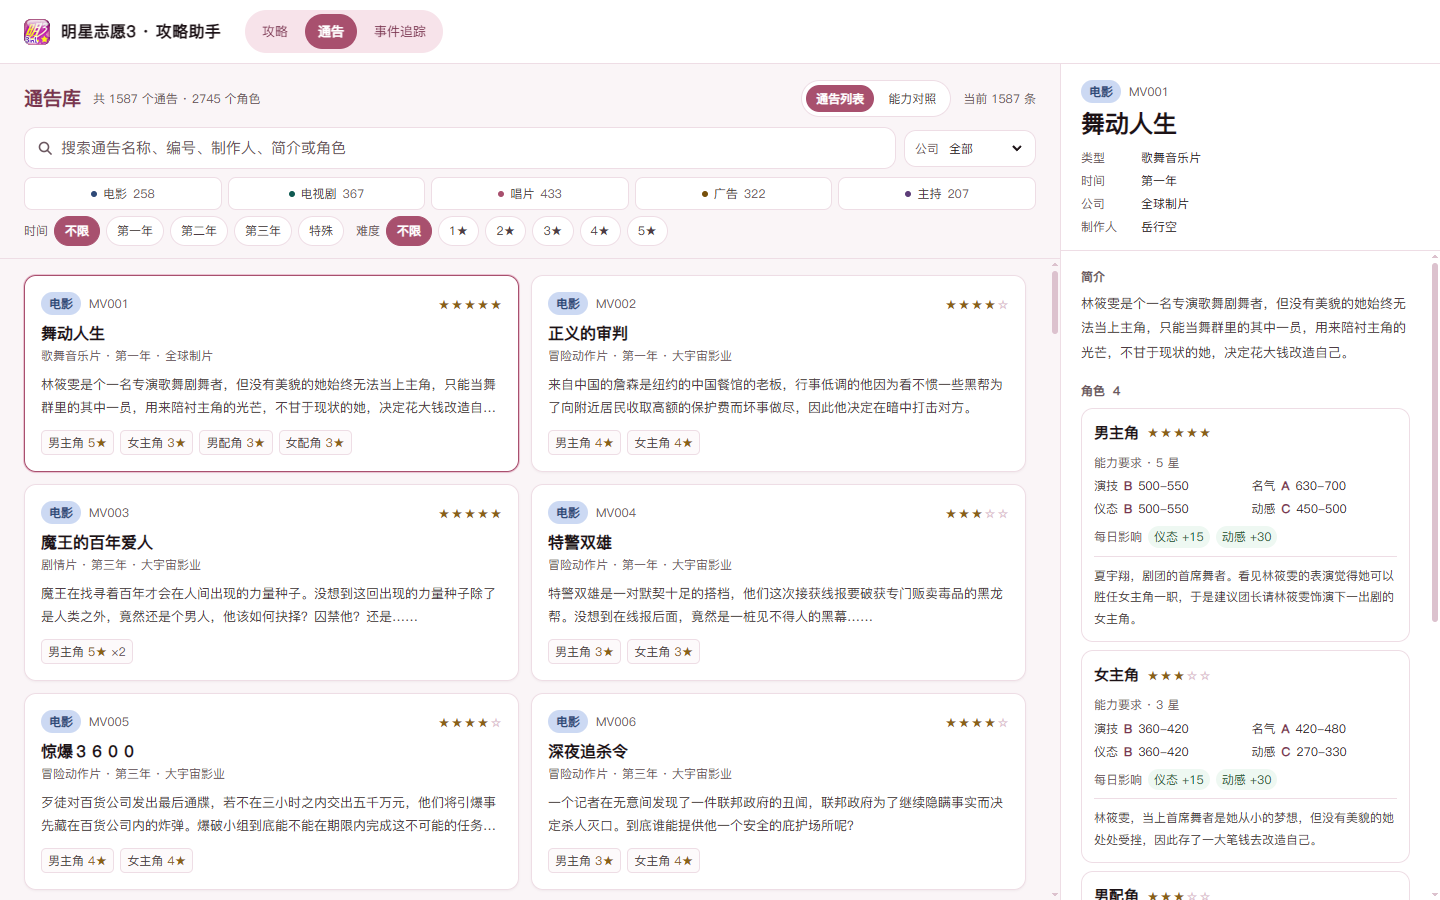
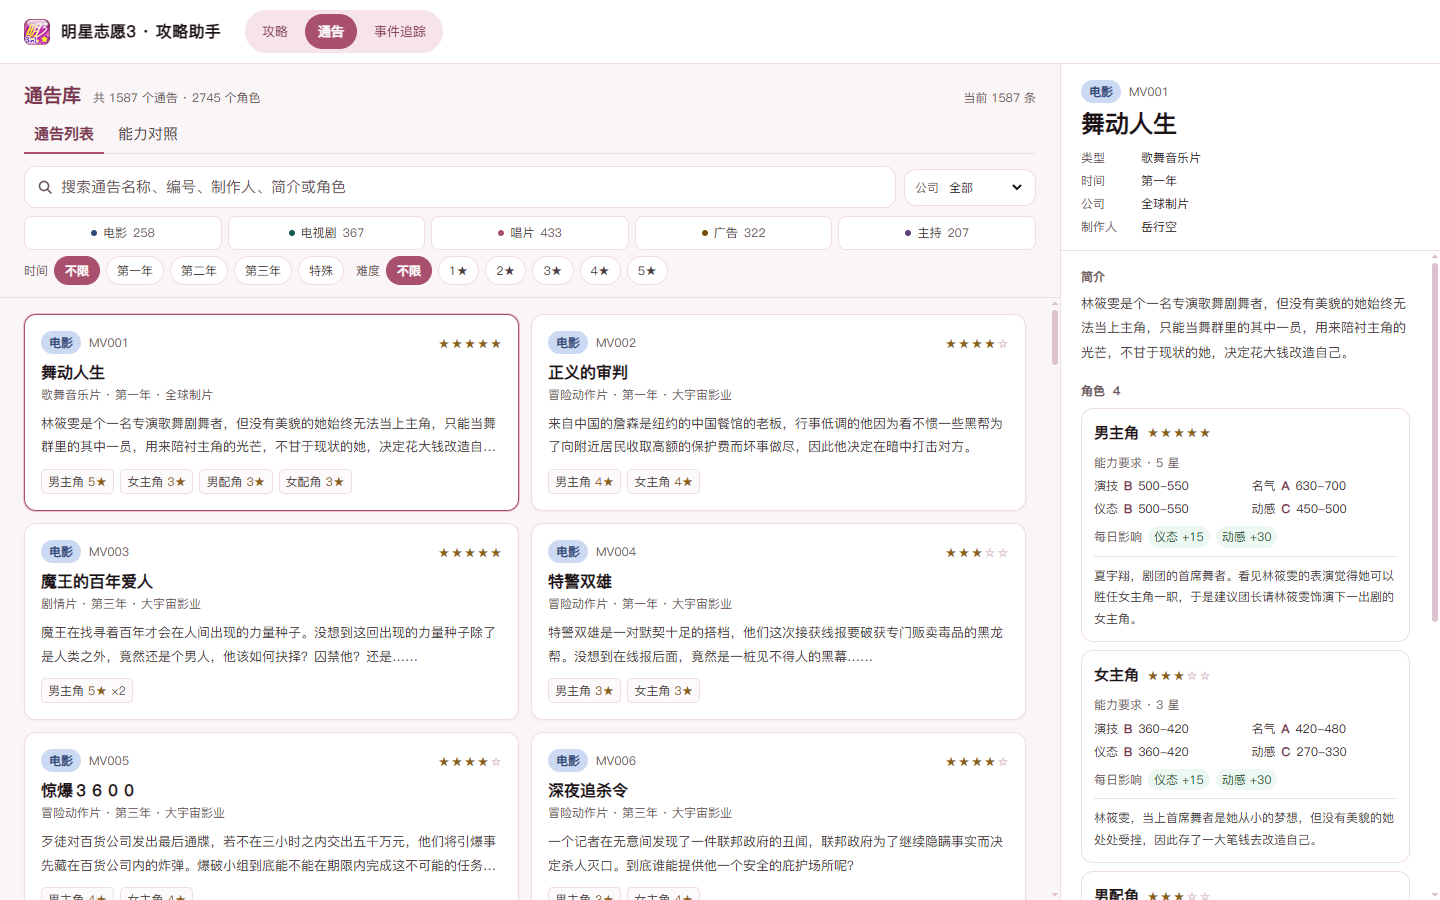
style: use underline tabs for the notices view switch

diff --git a/src/components/notices/NoticeFilterBar.tsx b/src/components/notices/NoticeFilterBar.tsx
@@ -45,16 +45,24 @@ export default function NoticeFilterBar({
 
   return (
     <div data-notice-filters className="shrink-0 border-b border-line bg-canvas px-6 pb-3 pt-4">
-      <div className="mb-2.5 flex flex-wrap items-center gap-x-3 gap-y-2">
+      <div className="mb-2 flex flex-wrap items-baseline gap-x-3 gap-y-1">
         <h1 className="text-ui-lg font-bold text-brand-strong">通告库</h1>
         <span className="text-ui-2xs text-ink-faint">
           共 {data.meta.noticeCount} 个通告 · {data.meta.roleCount} 个角色
         </span>
-        <div
-          role="tablist"
-          aria-label="通告视图"
-          className="ml-auto flex shrink-0 items-center gap-1 rounded-full border border-line bg-surface p-1"
-        >
+        {view === 'list' && (
+          <span
+            className="ml-auto text-ui-2xs tabular-nums text-ink-faint"
+            data-notice-count
+          >
+            当前 {resultCount} 条
+          </span>
+        )}
+      </div>
+
+      {/* 视图切换用下划线 tab：顶栏已经是胶囊 tab，页面内再用一颗胶囊会混淆层级。 */}
+      <div className="mb-3 flex items-end border-b border-line">
+        <div role="tablist" aria-label="通告视图" className="-mb-px flex items-end gap-1">
           {([
             ['list', '通告列表'],
             ['reference', '能力对照'],
@@ -67,21 +75,16 @@ export default function NoticeFilterBar({
               aria-selected={view === key}
               onClick={() => onViewChange(key)}
               className={cn(
-                'rounded-full px-2.5 py-1 text-ui-2xs transition-colors',
+                'shrink-0 border-b-2 px-2.5 pb-1.5 pt-1 text-ui-sm transition-colors',
                 view === key
-                  ? 'bg-brand font-semibold text-white'
-                  : 'text-ink-muted hover:text-brand-strong',
+                  ? 'border-brand font-semibold text-brand-strong'
+                  : 'border-transparent text-ink-muted hover:border-line-strong hover:text-brand-strong',
               )}
             >
               {label}
             </button>
           ))}
         </div>
-        {view === 'list' && (
-          <span className="text-ui-2xs tabular-nums text-ink-faint" data-notice-count>
-            当前 {resultCount} 条
-          </span>
-        )}
       </div>
 
       {view === 'list' && (
